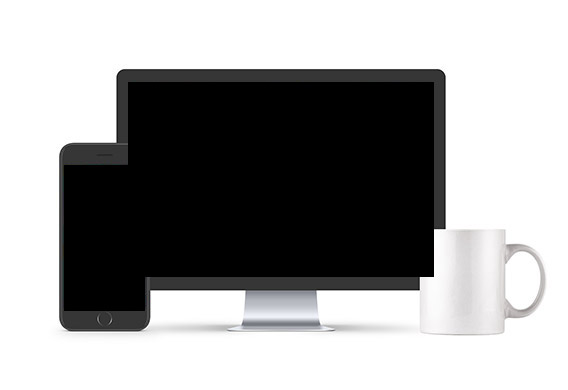
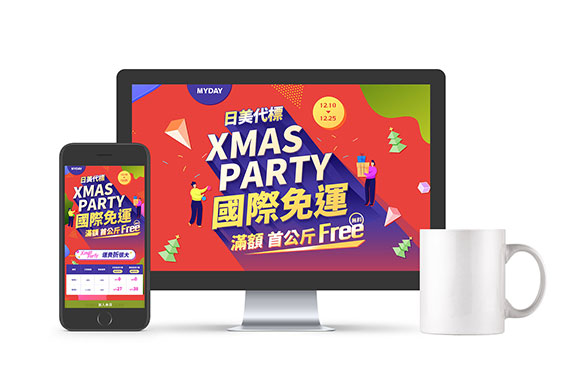
20191205

diff --git a/002.html b/002.html
@@ -35,13 +35,13 @@
 
         <div class="content-pages">
             <h3>- 行銷EVENT說明 -</h3>
-            <p>欲與以往耶誕紅配綠情景作出區隔，視覺需求以簡單漸層色塊呈現，<br>創造立體感的標準字，增加年底最後一波活動記憶點<br>並用耶誕樹與送禮的概念搭配整體網頁，打造活潑促銷的商業風格。</p>
+            <p>會員招募頁，需製作手機版本，以容易閱讀且一目了然為目的。<br>利用簡易幾何素材設計，表現出簡約俐落的感覺。</p>
 
             <div class="skill"> CSS3 + HTML5 + RWD + PHOTOSHOP + ILLUSRATOR</div> 
 
-            <img src="images/001.jpg">
+            <img src="images/002.jpg">
 
-            <h3><a href="https://www.myday.com.tw/a_myday/edm/20191210xmasparty/index.html" target="_blank">LINK</a></h3>  
+            <h3><a href="http://www.myjapan.com/edm/JoinMYJAPAN/index.html" target="_blank">LINK</a></h3>  
             <a class="btn btn-back" href="index.html" target="_self">Back</a>
 
         </div>

diff --git a/index.html b/index.html
@@ -18,7 +18,7 @@
 
     <div class="header-inner">
         <div class="header">
-            <a href="https://jamieshih.github.io/work/" target="_blank"><div class="logo">Jamie Shih Portfolio 2019</div></a>
+            <a href="https://jamieshih.github.io/work/" target="_self"><div class="logo">Jamie Shih Portfolio 2019</div></a>
             <div class="nav">
                 <ul>
                 <li><a href="index.html" target="_self">WORKS</a></li>
@@ -54,7 +54,7 @@
 
                 <li>
                 <div class="works-overlay">
-                    <a href="001.html" target="_self"><div class="works-item"><i class="fas fa-link"></i></div></a><img src="images/img01.jpg"></div>
+                    <a href="002.html" target="_self"><div class="works-item"><i class="fas fa-link"></i></div></a><img src="images/img02.jpg"></div>
                 </li>
 
                 <li>

diff --git a/about.html b/about.html
@@ -18,7 +18,7 @@
 
     <div class="header-inner">
         <div class="header">
-            <a href="https://jamieshih.github.io/work/" target="_blank"><div class="logo">Jamie Shih Portfolio 2019</div></a>
+            <a href="https://jamieshih.github.io/work/" target="_self"><div class="logo">Jamie Shih Portfolio 2019</div></a>
             <div class="nav">
                 <ul>
                 <li><a href="index.html" target="_self">WORKS</a></li>

diff --git a/css/style.css b/css/style.css
@@ -10,13 +10,15 @@ a{
 .header-inner{
 	width: 100%;	
     background-color: #fff;
-    position:relative;  
+    position:relative;
+    border-bottom: 1px solid #f0f0f0;
+
 }
 
 
 .header{
 	max-width: 1024px;
-	padding: 10px 0 65px 0;
+	padding: 10px 0 75px 0;
 	margin: 0 auto;	
 }
 
@@ -339,7 +341,7 @@ a{
 	   	 	text-align: center;
 	    	line-height: 30px;	
 		}
-		
+
 		.content-pages p{
 			padding:10px 20px 0 20px;
 			color: #333333;
